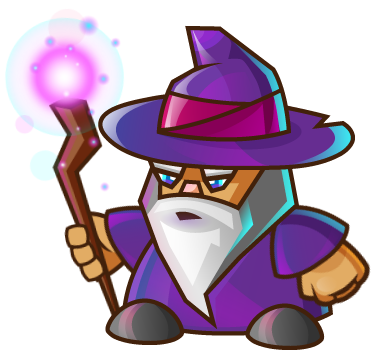
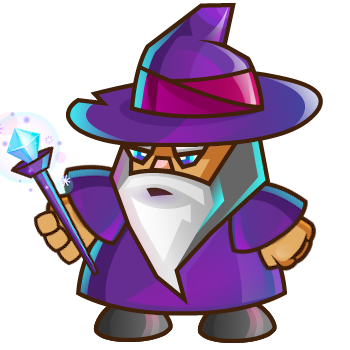
Cambios a la animacion de salto

diff --git a/Character.py b/Character.py
@@ -16,6 +16,7 @@ class Character(pygame.sprite.Sprite):
         self.dir = 0
         self.images = None
         self.current = 0
+        self.salto = False
 
     def setLeft(self, left):
         self.left = left
@@ -85,6 +86,16 @@ class Character(pygame.sprite.Sprite):
             self.image = self.images[self.dir][self.current]
             self.current += 1
             self.current %= 3
+        if self.salto:
+            self.rect.top += 200
+            self.salto = False
+            self.dir = 0
+        else:
+            if keys[K_SPACE]:
+                self.rect.top -= 200
+                self.dir = 4
+                self.salto = True
+
 
     def draw(self, screen):
         screen.blit(self.image, self.rect)

diff --git a/Sprites.py b/Sprites.py
@@ -88,11 +88,9 @@ class DownState:
 class WarriorDownState(DownState):
 
     def __init__(self):
-<<<<<<< HEAD
-        self.image = ['Static/LeftWzFL.png', 'Static/LeftWzM.png', 'Static/LeftWzFL.png']
-=======
         self.image =  ['Static/abaj.png', 'Static/abaj1.png', 'Static/abaj.png']
->>>>>>> 3a45d314587f27237b385490bed6471ffebebfe3
+
+        
 
 class WizardDownState(DownState):
 
@@ -122,7 +120,7 @@ class WarriorJumpState(JumpState):
 class WizardJumpState(JumpState):
 
     def __init__(self):
-        self.image = ['Static/RightWzFL.png', 'Static/JumpRWzM.png', 'Static/RightWzFL.png']
+        self.image = ['Static/UpWzFL.png', 'Static/UpWzM.png', 'Static/UpWzFL.png']
 
 class MonsterJumpState(JumpState):
 

diff --git a/Animacion.py b/Animacion.py
@@ -7,11 +7,7 @@ CENTER = (SCREEN_WIDTH // 2, SCREEN_HEIGHT // 2)
 BLACK = 0,0,0
 
 manager = CharacterManager()
-<<<<<<< HEAD
-manager.setBuilder(MonsterBuilder())
-=======
-manager.setBuilder(MonsterBuilder())
->>>>>>> 3a45d314587f27237b385490bed6471ffebebfe3
+manager.setBuilder(WizardBuilder())
 manager.buildCharacter()
 character = manager.getCharacter()
 
@@ -31,4 +27,5 @@ while playing:
     character.update()
     print(character.getPos())
     character.draw(screen)
+    pygame.time.delay(50)
     pygame.display.flip()
